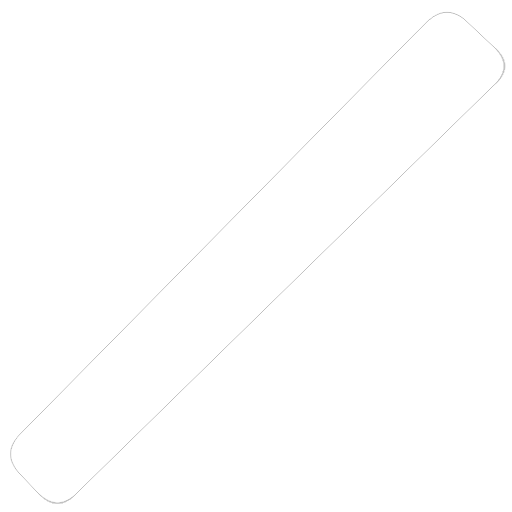
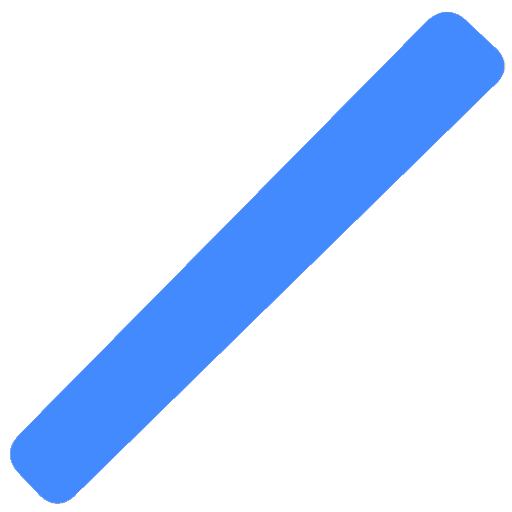
show selected btns ,add more pen sizes , improve clean code in some palaces

Changed region(s): [[0.0, 0.0, 1.0, 1.0]]

diff --git a/main.py b/main.py
@@ -1,8 +1,8 @@
 import PyQt5
 from PyQt5.QtGui import QKeySequence
-from PyQt5.QtWidgets import QShortcut, QAction, QColorDialog
+from PyQt5.QtWidgets import QShortcut, QAction, QColorDialog, QGroupBox, QPushButton
 
-from canvas import Canvas
+from canvas import Canvas,ToolMode ,ShapeMode
 from PyQt5 import QtWidgets, uic, QtGui, QtCore, Qt  # pip install pyqt5
 import sys
 from qt_material import apply_stylesheet  # pip install qt_material
@@ -30,7 +30,8 @@ class Ui(QtWidgets.QMainWindow):
         self.penSizeCombobox.setStyleSheet("font-size: 20px;")
         self.canvas = Canvas(1100, 600)
         self.canvasHorizontalLayout.addWidget(self.canvas)
-
+        self.show_selected_btn_in_ui()
+        self.change_selected_color_icon('#000000')
     def connect_btns_functions(self):
         #### btn connections ####
         self.newFileBtn.pressed.connect(self.new_file_btn_pressed)
@@ -72,15 +73,16 @@ class Ui(QtWidgets.QMainWindow):
         msg.setText("this action will delete all your unsaved files! \n are you sure to create new file?")
         msg.setIcon(QMessageBox.Warning)
         msg.setStandardButtons(QMessageBox.Yes | QMessageBox.No)
-        msg.buttonClicked.connect(self.popup_button)
+        msg.buttonClicked.connect(self.new_file_btn_popup)
         x = msg.exec_()
 
-    def popup_button(self, i):
+
+    def new_file_btn_popup(self, i):
         if i.text() == "&Yes":
             self.canvas.new_pixmap()
         else :
             pass
-        #print(i.text())
+
     def open_file_btn_pressed(self):
         self.canvas.open_image_as_pixmap()
     def save_file_btn_pressed (self):
@@ -93,33 +95,72 @@ class Ui(QtWidgets.QMainWindow):
         self.canvas.redo_action()
 
     def pen_btn_pressed(self):
-        self.canvas.set_mode("pen")
+        self.canvas.set_mode(ToolMode.pen.name)
+        self.show_selected_btn_in_ui()
+
 
     def eraser_btn_pressed(self):
-        self.canvas.set_mode("eraser")
+        self.canvas.set_mode(ToolMode.eraser.name)
+        self.show_selected_btn_in_ui()
 
     def fill_btn_pressed(self):
-        self.canvas.set_mode("fill")
+        self.canvas.set_mode(ToolMode.fill.name)
+        self.show_selected_btn_in_ui()
 
+    def fill_btn_popup(self, i):
+        if i.text() == "&Yes":
+            self.canvas.new_pixmap()
+        else :
+            pass
 
     def pen_size_combobox_change(self):
         self.canvas.set_pen_size(int(self.penSizeCombobox.currentText()))
 
     def line_shape_btn_pressed(self):
-        self.canvas.set_mode("shape")
-        self.canvas.set_shape_mode("line")
+        self.canvas.set_mode(ToolMode.shape.name)
+        self.canvas.set_shape_mode(ShapeMode.line.name)
+        self.show_selected_btn_in_ui()
 
     def rounded_rect_shape_btn_pressed(self):
-        self.canvas.set_mode("shape")
-        self.canvas.set_shape_mode("rounded rect")
+        self.canvas.set_mode(ToolMode.shape.name)
+        self.canvas.set_shape_mode(ShapeMode.rounded_rect.name)
+        self.show_selected_btn_in_ui()
 
     def rect_shape_btn_pressed(self):
-        self.canvas.set_mode("shape")
-        self.canvas.set_shape_mode("rect")
+        self.canvas.set_mode(ToolMode.shape.name)
+        self.canvas.set_shape_mode(ShapeMode.rect.name)
+        self.show_selected_btn_in_ui()
 
     def circle_shape_btn_pressed(self):
-        self.canvas.set_mode("shape")
-        self.canvas.set_shape_mode("circle")
+        self.canvas.set_mode(ToolMode.shape.name)
+        self.canvas.set_shape_mode(ShapeMode.circle.name)
+        self.show_selected_btn_in_ui()
+
+    def show_selected_btn_in_ui(self):
+        for btn in self.toolBox.findChildren(QPushButton):
+            btn.setEnabled(True)
+        for btn in  self.shapesBox.findChildren(QPushButton):
+            btn.setEnabled(True)
+        if self.canvas.mode == ToolMode.pen:
+            self.penBtn.setEnabled(False)
+        elif self.canvas.mode == ToolMode.eraser:
+            self.eraserBtn.setEnabled(False)
+        elif self.canvas.mode == ToolMode.fill:
+            self.fillBtn.setEnabled(False)
+        elif self.canvas.mode == ToolMode.shape:
+            if self.canvas.shape_mode == ShapeMode.line:
+                self.lineShapeBtn.setEnabled(False)
+            elif self.canvas.shape_mode == ShapeMode.rect:
+                self.squareShapeBtn.setEnabled(False)
+            elif self.canvas.shape_mode == ShapeMode.rounded_rect:
+                self.roundedSquareShapeBtn.setEnabled(False)
+            elif self.canvas.shape_mode == ShapeMode.circle:
+                self.circleShapeBtn.setEnabled(False)
+            else:
+                pass
+        else:
+            pass
+
 
     def change_selected_color_icon(self, color):
         self.selectedColorIcon.setStyleSheet("background-color:" + color + "; border-radius : 20;")

diff --git a/canvas.py b/canvas.py
@@ -1,8 +1,12 @@
 import enum
+
 from PyQt5 import QtWidgets, QtGui, QtCore
 from PyQt5.QtCore import QPoint
 from PyQt5.QtGui import QKeySequence, QPixmap, QColor
-from PyQt5.QtWidgets import QShortcut, QAction, QMenu, QFileDialog, QColorDialog
+from PyQt5.QtWidgets import QShortcut, QAction, QMenu, QFileDialog, QDialog, QVBoxLayout, \
+    QLabel
+
+import threading
 
 
 class ToolMode(enum.Enum):
@@ -20,7 +24,7 @@ class ShapeMode(enum.Enum):
 
 
 class Canvas(QtWidgets.QLabel):
-    def __init__(self, w, h, back_clr='#ffffff', pen_color='#FF0000'):
+    def __init__(self, w, h, back_clr='#ffffff', pen_color='#000000',pensize=1):
         super().__init__()
         self.canvas_width = w
         self.canvas_height = h
@@ -31,7 +35,7 @@ class Canvas(QtWidgets.QLabel):
         self.setPixmap(pixmap)
         self.last_x, self.last_y = None, None
         self.pen_color = QtGui.QColor(pen_color)
-        self.pen_width = 2
+        self.pen_width = pensize
         self.mode = ToolMode.pen
         self.shape_mode = None
         self.begin_shape_point = None
@@ -71,23 +75,23 @@ class Canvas(QtWidgets.QLabel):
             self.setPixmap(new_pixmap)
 
     def set_mode(self, new_mode):
-        if new_mode == "pen":
+        if new_mode == ToolMode.pen.name:
             self.mode = ToolMode.pen
-        if new_mode == "eraser":
+        if new_mode == ToolMode.eraser.name:
             self.mode = ToolMode.eraser
-        if new_mode == "fill":
+        if new_mode == ToolMode.fill.name:
             self.mode = ToolMode.fill
-        if new_mode == "shape":
+        if new_mode == ToolMode.shape.name:
             self.mode = ToolMode.shape
 
     def set_shape_mode(self, new_shape_mode):
-        if new_shape_mode == "line":
+        if new_shape_mode == ShapeMode.line.name:
             self.shape_mode = ShapeMode.line
-        if new_shape_mode == "circle":
+        if new_shape_mode == ShapeMode.circle.name:
             self.shape_mode = ShapeMode.circle
-        if new_shape_mode == "rect":
+        if new_shape_mode == ShapeMode.rect.name:
             self.shape_mode = ShapeMode.rect
-        if new_shape_mode == "rounded rect":
+        if new_shape_mode == ShapeMode.rounded_rect.name:
             self.shape_mode = ShapeMode.rounded_rect
 
     def pen_mode_mouse_move_event(self, e):
@@ -248,12 +252,14 @@ class Canvas(QtWidgets.QLabel):
                 self.get_cardinal_points(have_seen=self.have_seen, center_pos=(x, y), initial_color=initial_color)
 
     def fill_mode_mouse_press_event(self, e):
+
         image = self.pixmap().toImage()
         clicked_pixel_color = image.pixelColor(e.x(), e.y()).name()
         self.points_queue = []
         self.points_queue.append((e.x(), e.y()))
         self.have_seen = set()
         self.bfs(clicked_pixel_color)
+
 
     def mouseReleaseEvent(self, e):
         if self.mode == ToolMode.pen:
